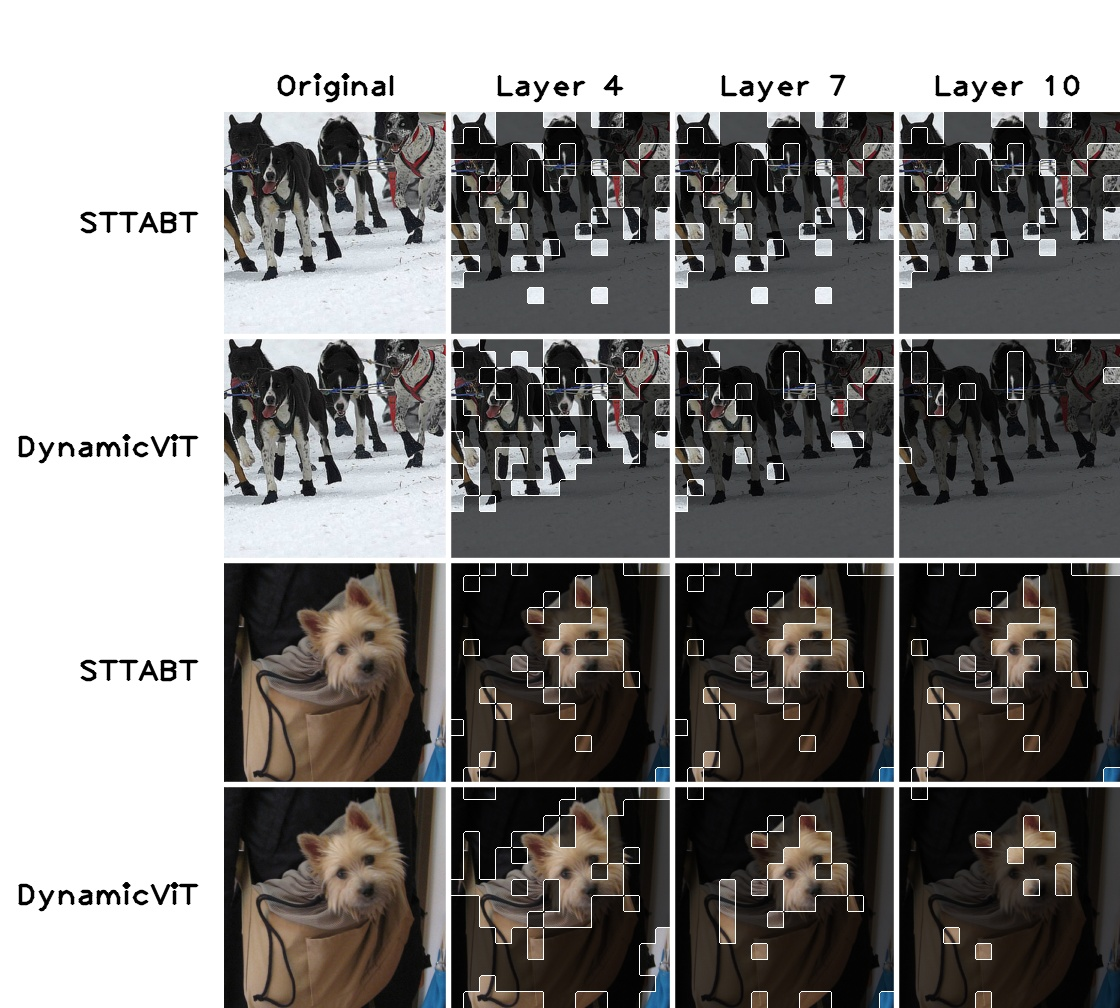
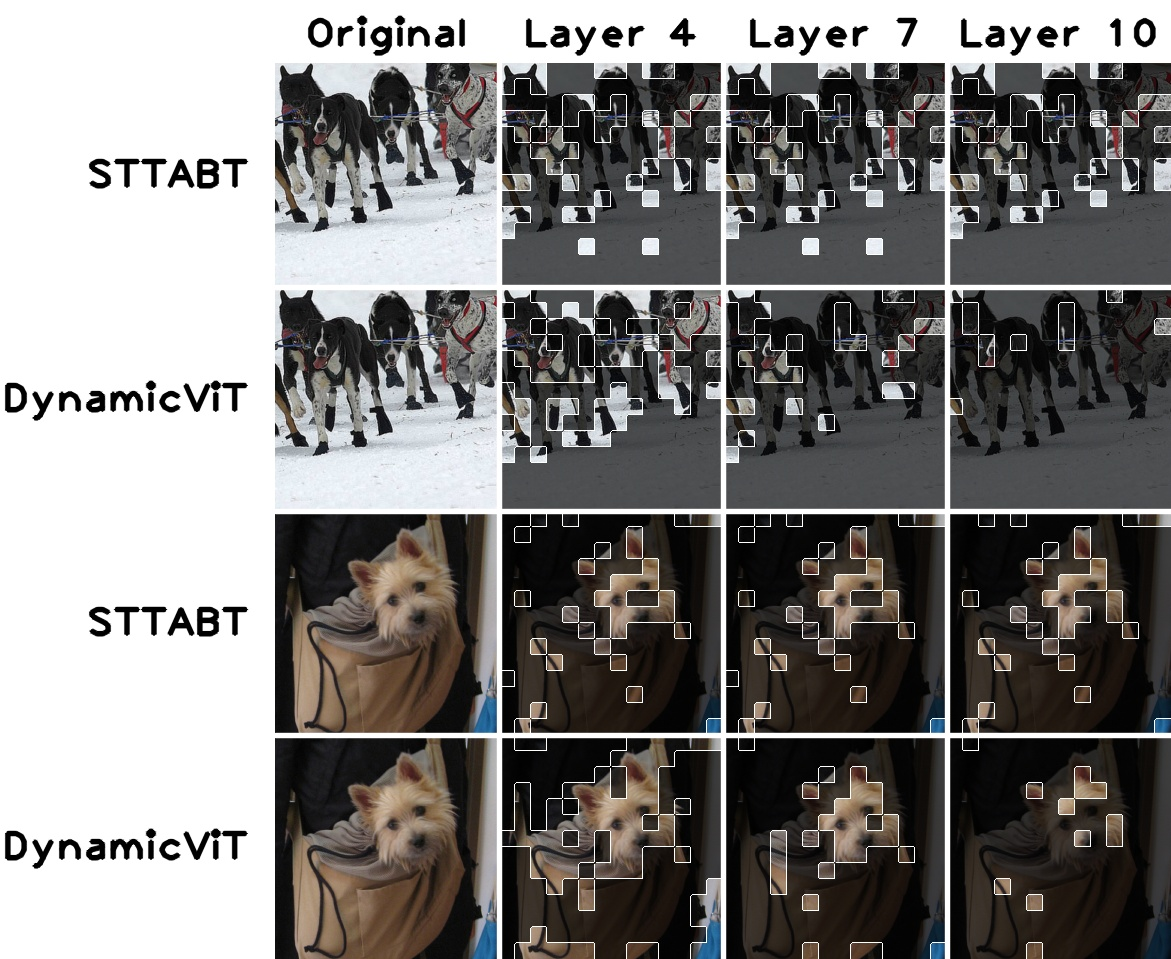
fix vit visualize font size

diff --git a/main/visualize/vit.py b/main/visualize/vit.py
@@ -158,8 +158,8 @@ def vis_concrete(checkpoint_path, imsize=224, patchsize=16, factor=4, p_logit=-1
     return plot_imgs
 
 def label_stacked_plot(plot, labels_layer=None):
-    left_pad = 224
-    top_pad = 112
+    left_pad = 275
+    top_pad = 63
     left_stack_top_margin = 112 + top_pad
     left_stack_item_height = 224
     left_stack_item_right_pad = 24
@@ -167,9 +167,9 @@ def label_stacked_plot(plot, labels_layer=None):
     top_stack_bottom_margin = 16
     top_stack_item_width = 224
     font_face = cv2.FONT_HERSHEY_PLAIN
-    font_scale = 2.0
+    font_scale = 2.7
     font_color = (0,0,0)
-    font_thickness = 2
+    font_thickness = 3
     grid_line_color = (255,255,255)
     grid_line_thickness = 3
 
